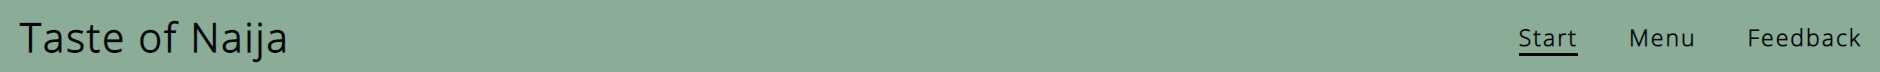
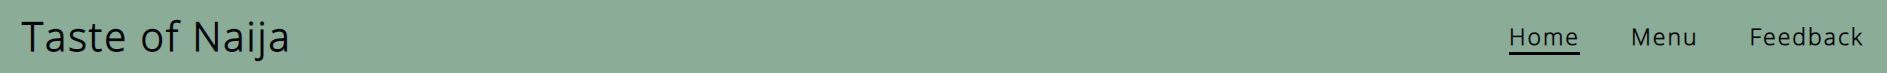
Add header tags sequentially in menu.html and apply styles

diff --git a/menu.html b/menu.html
@@ -35,10 +35,10 @@
             <img class="menu-contain-image" src="assets/images/jollof-rice-and-chicken.jpg"
                 alt="Picture of jollof rice and chicken">
             <div class="menu-contain-text">
-                <h3 class="menu-contain-heading">
+                <h2 class="menu-contain-heading">
                     <span class="menu-list">Jollof Rice and Chicken</span>
                     <span class="menu-price">15 euros</span>
-                </h3>
+                </h2>
             </div>
         </div>
 
@@ -46,10 +46,10 @@
             <img class="menu-contain-image" src="assets/images/fried-rice-and-chicken-with-coleslaw.jpg"
                 alt="Picture of fried rice and chicken with coleslaw">
             <div class="menu-contain-text">
-                <h3 class="menu-contain-heading">
+                <h2 class="menu-contain-heading">
                     <span class="menu-list">Fried Rice and Chicken with Coleslaw</span>
                     <span class="menu-price">25 euros</span>
-                </h3>
+                </h2>
             </div>
         </div>
 
@@ -57,20 +57,20 @@
             <img class="menu-contain-image" src="assets/images/fried-plantain-and-beans.jpg"
                 alt="Picture of fried plantain and beans">
             <div class="menu-contain-text">
-                <h3 class="menu-contain-heading">
+                <h2 class="menu-contain-heading">
                     <span class="menu-list">Fried Plantain and Beans</span>
                     <span class="menu-price">15 euros</span>
-                </h3>
+                </h2>
             </div>
         </div>
 
         <div class="menu-contain">
             <img class="menu-contain-image" src="assets/images/bread-and-beans.jpg" alt="Picture of bread and beans">
             <div class="menu-contain-text">
-                <h3 class="menu-contain-heading">
+                <h2 class="menu-contain-heading">
                     <span class="menu-list">Bread and Beans</span>
                     <span class="menu-price">15 euros</span>
-                </h3>
+                </h2>
             </div>
         </div>
 
@@ -78,10 +78,10 @@
             <img class="menu-contain-image" src="assets/images/fufu-and-egusi-soup.jpg"
                 alt="Picture of fufu and egusi soup">
             <div class="menu-contain-text">
-                <h3 class="menu-contain-heading">
+                <h2 class="menu-contain-heading">
                     <span class="menu-list">Fufu and Egusi Soup</span>
                     <span class="menu-price">20 euros</span>
-                </h3>
+                </h2>
             </div>
         </div>
 
@@ -89,10 +89,10 @@
             <img class="menu-contain-image" src="assets/images/pounded-yam.jpg"
                 alt="Picture of pounded yam and vegetable soup">
             <div class="menu-contain-text">
-                <h3 class="menu-contain-heading">
+                <h2 class="menu-contain-heading">
                     <span class="menu-list">Pounded Yam and Vegetable Soup</span>
                     <span class="menu-price">20 euros</span>
-                </h3>
+                </h2>
             </div>
         </div>
 

diff --git a/assets/css/style.css b/assets/css/style.css
@@ -30,9 +30,9 @@ header {
   font-size: 2rem;
 }
 
-h2,
-h3 {
-  color: #04060C;
+h2 {
+  font-size: 2.2rem;
+  font-weight: bolder;
 }
 
 p {

diff --git a/README.md b/README.md
@@ -25,8 +25,8 @@ The website provides useful information about the restaurant such as the address
 
 - **Navigation Bar**
 
-    - This appears on all three pages in the project. It includes links to the 'Taste of Naija' logo, the Start, Menu and Feedback pages.
-    - The section is identical on all pages and allows the user to navigate from one page to another without having to go back to the Start page.
+    - This appears on all three pages in the project. It includes links to the 'Taste of Naija' logo, the Home, Menu and Feedback pages.
+    - The section is identical on all pages and allows the user to navigate from one page to another without having to go back to the Home page.
 
 
 ![Navigation bar for Taste of Naija website](/documentation/nav-bar.png)
@@ -118,11 +118,11 @@ The website provides useful information about the restaurant such as the address
 
 - The website is created for devices having a device-width of at least 320 pixels. Below are short Gifs showing how the website looks and scrolls on the iPhone4 device which has a device-width of 320 pixels.
 
-    - ![Gif showing the look of the start page when scrolling on the iPhone4](/documentation/testing/start-page-iphone4.gif)
+    - ![Gif showing the look of the Home page when scrolling on the iPhone4](/documentation/testing/home-page-iphone4.gif)
 
-    - ![Gif showing the look of the menu page when scrolling on the iPhone4](/documentation/testing/food-menu-iphone4.gif)
+    - ![Gif showing the look of the Menu page when scrolling on the iPhone4](/documentation/testing/food-menu-iphone4.gif)
 
-    - ![Gif showing the look of the feedback page when scrolling on the iPhone4](/documentation/testing/feedback-iphone4.gif)
+    - ![Gif showing the look of the Feedback page when scrolling on the iPhone4](/documentation/testing/feedback-iphone4.gif)
 
 - **Validators**
 
